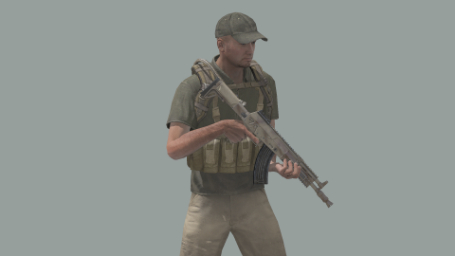
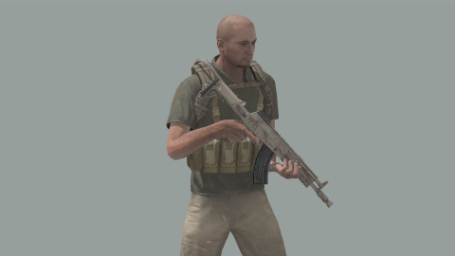
Remove Somali headgear

Changed region(s): [[0.4615, 0.0312, 0.5846, 0.1875]]

diff --git a/addons/somali_pirates/CfgVehicles_I.hpp b/addons/somali_pirates/CfgVehicles_I.hpp
@@ -9,32 +9,13 @@ class TACU_Somali_Pirates_U_I_Rifleman_01: TACU_Main_U_INDEP_Soldier_Base {
     icon = "iconMan";
     role = "Rifleman";
     uniformClass = "U_I_C_Soldier_Bandit_4_F";
-    linkedItems[] = {
-        DEFAULT_ITEMS_RADIO,
-        "H_Cap_blk",
-        "V_Chestrig_khk"
-    };
-    respawnLinkedItems[] = {
-        DEFAULT_ITEMS_RADIO,
-        "H_Cap_blk",
-        "V_Chestrig_khk"
-    };
+    linkedItems[] = {DEFAULT_ITEMS_RADIO, "V_Chestrig_khk"};
+    respawnLinkedItems[] = {DEFAULT_ITEMS_RADIO, "V_Chestrig_khk"};
     weapons[] = {"arifle_AK12_arid_F","Throw", "Put"};
     respawnWeapons[] = {"arifle_AK12_arid_F","Throw", "Put"};
     magazines[] = {mag_6("tacgt_AI_30Rnd_762x39_AK"), mag_2("HandGrenade")};
     respawnMagazines[] = {mag_6("tacgt_AI_30Rnd_762x39_AK"), mag_2("HandGrenade")};
-    headgearList[] = {
-        "H_Bandanna_gry", 0.1,
-        "H_Bandanna_cbr", 0.1,
-        "H_Booniehat_khk", 0.1,
-        "H_Cap_blk", 0.1,
-        "H_Cap_tan", 0.1,
-        "lxWS_H_turban_03_black", 0.1,
-        "lxWS_H_turban_03_blue", 0.1,
-        "lxWS_H_turban_03_green", 0.1,
-        "lxWS_H_turban_03_sand", 0.1,
-        "lxWS_H_turban_03_gray", 0.1
-    };
+    headgearList[] = {};
     CBA_facewearList[] = {
         "G_Bandanna_blk", 0.12,
         "G_Bandanna_khk", 0.12,
